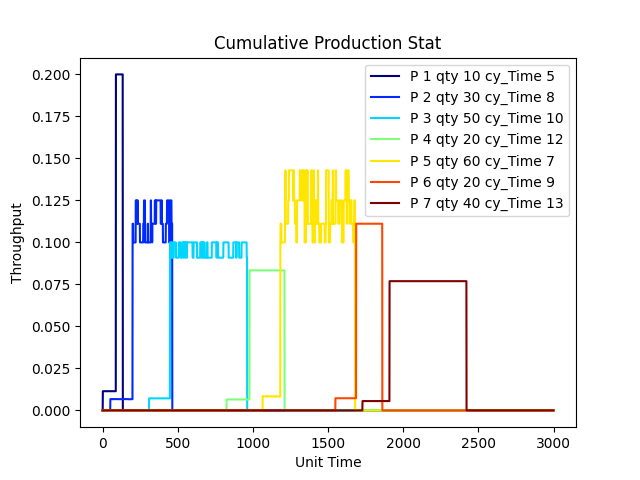
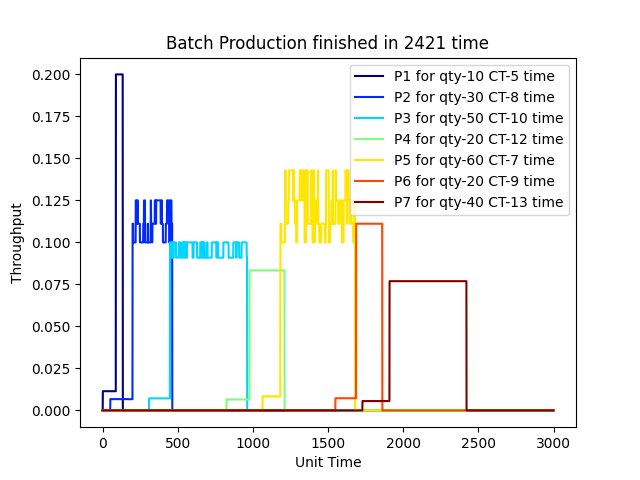
Variable process times for product variants

Changed region(s): [[0.25, 0.0625, 0.875, 0.4688]]

diff --git a/production_performance.py b/production_performance.py
@@ -25,6 +25,7 @@ def get_cmap(n, name='hsv'):
 
 def plot_throughput(num, prod_1_time, prod_normal_time, qty, num_cross):
     # Loop through each time step.
+    # It is important to simulate each variant before scheduling a total batch
     n_steps = 1000  # number of unit time
     throughput = np.zeros(n_steps)
     loss = 0.0
@@ -168,12 +169,15 @@ def prod_efficiency(Batch_sequence, pos, Qty, len_graph):
             coeff_pTime = PI_arr_idealT[i - 1] / process_time[i-1]
             #print("the calculated coeff prodcut", i+1, coeff_pTime)
             actual_processtime = float(PI_arr_pt[i - 1]) / coeff_pTime
+            #print("debug here", float(PI_arr_pt[i - 1]), coeff_pTime)
             #print(f'previous process time is {process_time[i-1]}')
             print(f"the actual process time of product {i+1} is {coeff_pTime}")
             offset += round(Qty[i - 1] * actual_processtime)
             # print(f"Start time of previous product was {PI_arr_pt[i-1]} product and time to produce 1st sample of current product {PI_arr_1sTime[i]}")
-        print(f"product {i+1} with start {offset} and stop {PI_arr_pt[i] + offset} index")
 
+        if i == len(Batch_sequence)-1:
+            finish_time = PI_arr_pt[i] + offset
+        print(f"product {i + 1} with start {offset} and stop {PI_arr_pt[i] + offset} index")
         cumulative_throughput[offset:PI_arr_pt[i] + offset] = PI_arr_thr[i]  # [1:PI_arr_pt[i]]
         plt.plot(prod_steps, cumulative_throughput, color=colors[i], label=f'P{i + 1} for qty-{Qty[i]} CT-{process_time[i]} time')
         # plt.pause(0.05)
@@ -181,7 +185,7 @@ def prod_efficiency(Batch_sequence, pos, Qty, len_graph):
     # Naming the x-axis, y-axis and the whole graph
     plt.xlabel("Unit Time")
     plt.ylabel("Throughput")
-    plt.title("Cumulative Production Stat")
+    plt.title(f"Batch Production finished in {finish_time} time")
 
     # Adding legend, which helps us recognize the curve according to it's color
     plt.legend()

diff --git a/Genetic_Algorithm.py b/Genetic_Algorithm.py
@@ -287,4 +287,6 @@ def run_GA():
 
     "Production performance of the fittest solution"
     Qty_order = [10, 30, 50, 20, 60, 20, 40]
+    #Qty_order = [100,100,100,100,100,100,100]
+    #Qty_order = [1, 1, 1, 1, 1, 1, 1]
     print(prod_efficiency(batch_seq, topology_htable[final_fitness][0], Qty_order, topology_htable[final_fitness][1]))
